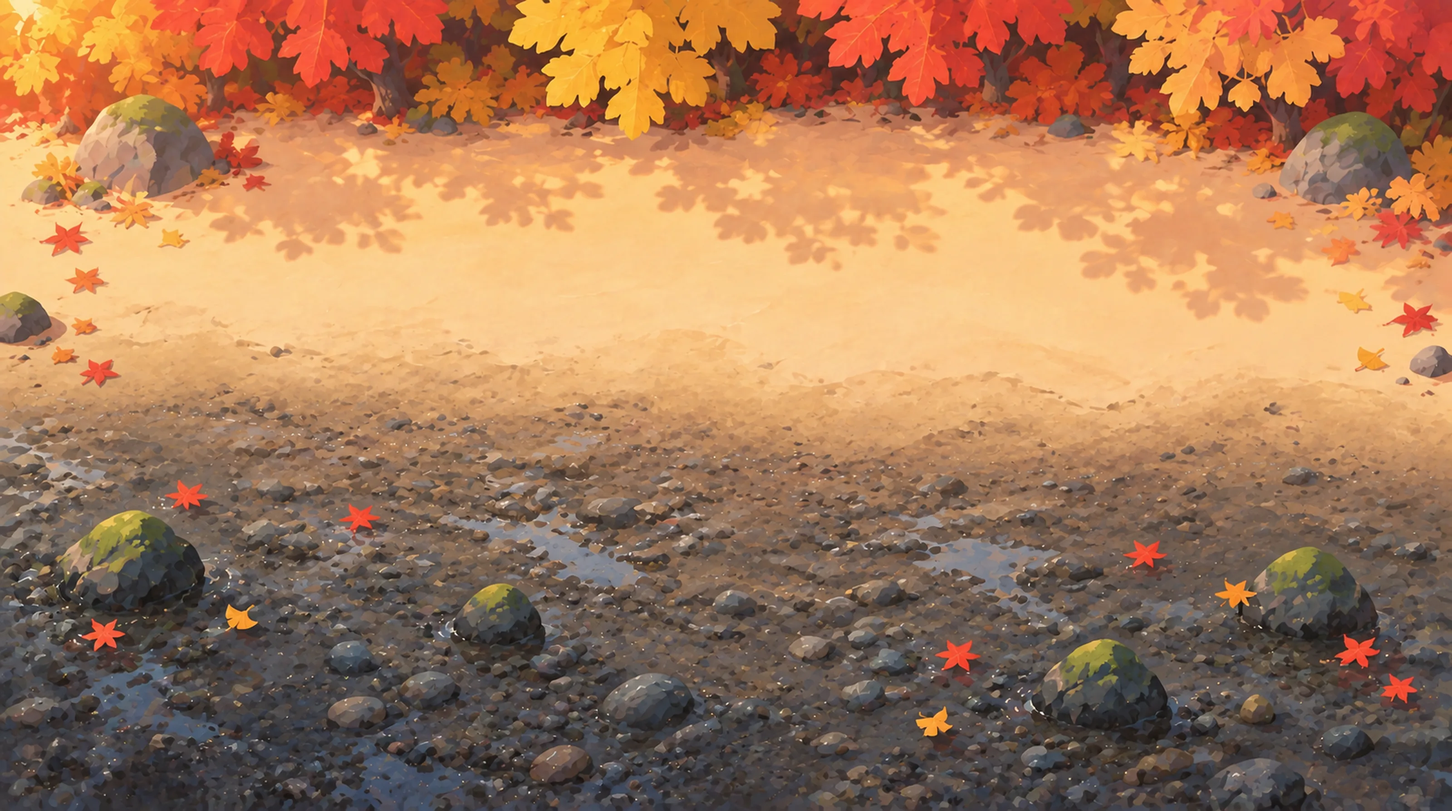
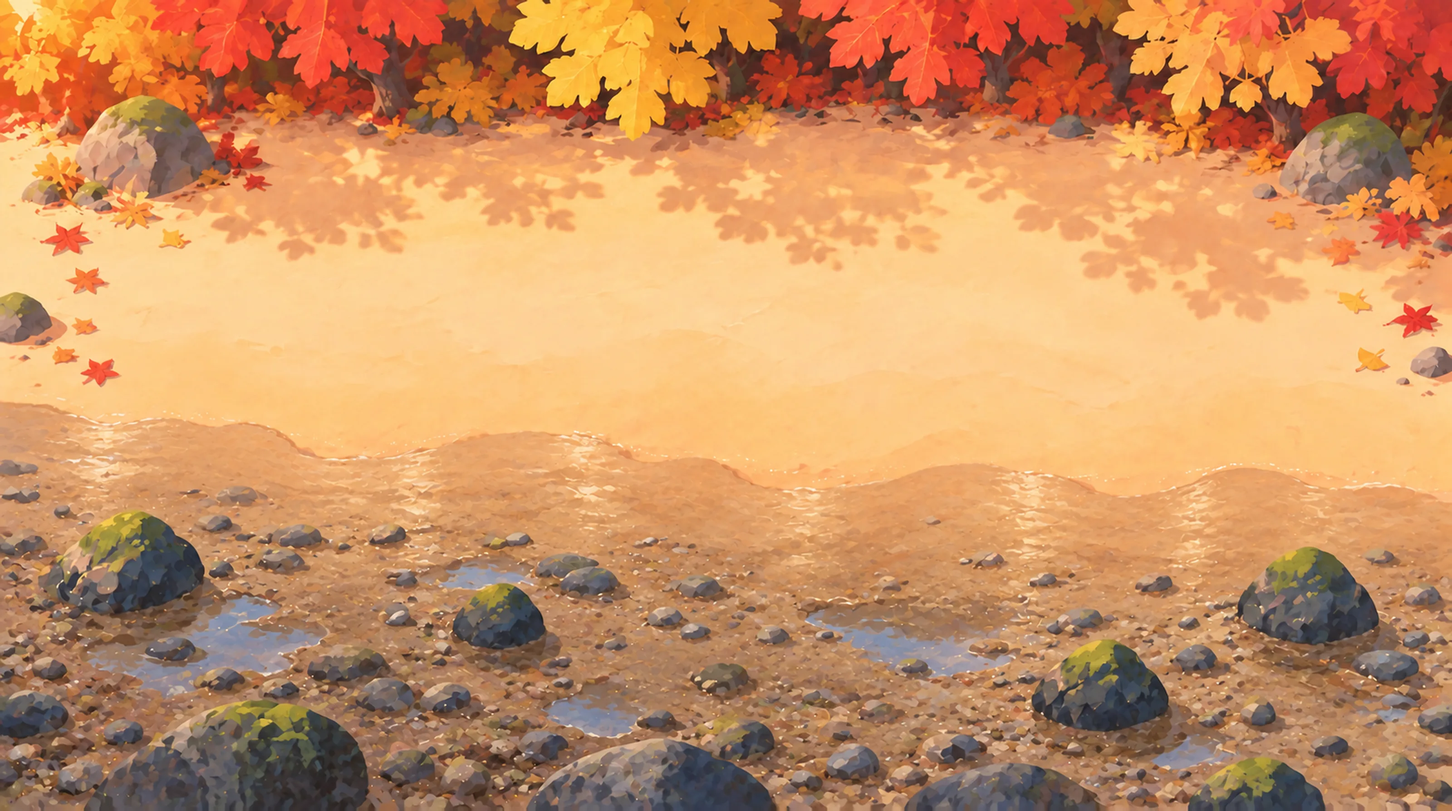
v17.0.1 반영

diff --git a/src/items.js b/src/items.js
@@ -10,24 +10,24 @@
 
 export const ITEMS = [
   { id: 'letter1', kind: 'letter', box: 'bottle', title: '첫 번째 편지', text: '파도가 글씨를 가져가도, 쓰고 싶었던 마음은 모래 속에 남아요.' },
-  { id: 'hat', kind: 'wear', box: 'crate', name: '밀짚모자', img: 'kiwi-hat.webp?v=v17.0.0', note: '햇볕 좋은 날 산책용.' },
+  { id: 'hat', kind: 'wear', box: 'crate', name: '밀짚모자', img: 'kiwi-hat.webp?v=v17.0.1', note: '햇볕 좋은 날 산책용.' },
   { id: 'letter2', kind: 'letter', box: 'bottle', title: '두 번째 편지', text: '키위는 날지 못해서 천천히 걸어요. 천천히 가도 결국 도착해요.' },
-  { id: 'scarf', kind: 'wear', box: 'crate', name: '빨간 목도리', img: 'kiwi-scarf.webp?v=v17.0.0', note: '밤바람이 차가울 때.' },
+  { id: 'scarf', kind: 'wear', box: 'crate', name: '빨간 목도리', img: 'kiwi-scarf.webp?v=v17.0.1', note: '밤바람이 차가울 때.' },
   { id: 'letter3', kind: 'letter', box: 'bottle', title: '세 번째 편지', text: '작은 발자국도 모이면 글자가 돼요. 오늘 찍은 한 걸음도요.' },
-  { id: 'crown', kind: 'wear', box: 'crate', name: '꽃 화관', img: 'kiwi-crown.webp?v=v17.0.0', note: '숲 가장자리에서 엮었대요.' },
+  { id: 'crown', kind: 'wear', box: 'crate', name: '꽃 화관', img: 'kiwi-crown.webp?v=v17.0.1', note: '숲 가장자리에서 엮었대요.' },
   { id: 'letter4', kind: 'letter', box: 'bottle', title: '네 번째 편지', text: '지워진 자리는 다음 문장을 위한 빈 모래예요.' },
-  { id: 'glasses', kind: 'wear', box: 'crate', name: '동그란 안경', img: 'kiwi-glasses.webp?v=v17.0.0', note: '글씨를 더 반듯하게 쓰고 싶어서.' },
+  { id: 'glasses', kind: 'wear', box: 'crate', name: '동그란 안경', img: 'kiwi-glasses.webp?v=v17.0.1', note: '글씨를 더 반듯하게 쓰고 싶어서.' },
   { id: 'letter5', kind: 'letter', box: 'bottle', title: '다섯 번째 편지', text: '여기까지 걸어온 당신에게. — 키위 일동' },
-  { id: 'backpack', kind: 'wear', box: 'crate', name: '작은 배낭', img: 'kiwi-backpack.webp?v=v17.0.0', note: '다음 장소로 떠날 준비.' },
-  { id: 'map-snow', kind: 'map', box: 'crate', map: 'snow', name: '눈밭', img: 'snow-card.webp?v=v17.0.0', note: '눈 덮인 숲 아래 호숫가. 발자국이 또렷하게 남아요.' },
+  { id: 'backpack', kind: 'wear', box: 'crate', name: '작은 배낭', img: 'kiwi-backpack.webp?v=v17.0.1', note: '다음 장소로 떠날 준비.' },
+  { id: 'map-snow', kind: 'map', box: 'crate', map: 'snow', name: '눈밭', img: 'snow-card.webp?v=v17.0.1', note: '눈 덮인 숲 아래 호숫가. 발자국이 또렷하게 남아요.' },
   // v11.1 겨울 옷 (두 번째 묶음 — 눈밭을 연 뒤에 떠내려온다)
-  { id: 'beanie', kind: 'wear', box: 'crate', name: '방울 털모자', img: 'kiwi-beanie.webp?v=v17.0.0', note: '눈밭 산책 필수품.' },
-  { id: 'earmuffs', kind: 'wear', box: 'crate', name: '분홍 귀마개', img: 'kiwi-earmuffs.webp?v=v17.0.0', note: '호수 바람이 찰 때.' },
-  { id: 'sweater', kind: 'wear', box: 'crate', name: '눈꽃 스웨터', img: 'kiwi-sweater.webp?v=v17.0.0', note: '눈송이 무늬 두꺼운 니트.' },
-  { id: 'blanket', kind: 'wear', box: 'crate', name: '체크 담요', img: 'kiwi-blanket.webp?v=v17.0.0', note: '글씨 쓰다 쉬어 갈 때 두르는 망토.' },
-  { id: 'santa', kind: 'wear', box: 'crate', name: '산타 모자', img: 'kiwi-santa.webp?v=v17.0.0', note: '12월이 오면.' },
-  { id: 'vest', kind: 'wear', box: 'crate', name: '패딩 조끼', img: 'kiwi-vest.webp?v=v17.0.0', note: '털 깃이 달린 따뜻한 조끼.' },
-  { id: 'map-fall', kind: 'map', box: 'crate', map: 'fall', name: '가을 호숫가', img: 'fall-card.webp?v=v17.0.0', note: '단풍 숲 아래 잔잔한 호수. 낙엽이 떠다녀요.' },
+  { id: 'beanie', kind: 'wear', box: 'crate', name: '방울 털모자', img: 'kiwi-beanie.webp?v=v17.0.1', note: '눈밭 산책 필수품.' },
+  { id: 'earmuffs', kind: 'wear', box: 'crate', name: '분홍 귀마개', img: 'kiwi-earmuffs.webp?v=v17.0.1', note: '호수 바람이 찰 때.' },
+  { id: 'sweater', kind: 'wear', box: 'crate', name: '눈꽃 스웨터', img: 'kiwi-sweater.webp?v=v17.0.1', note: '눈송이 무늬 두꺼운 니트.' },
+  { id: 'blanket', kind: 'wear', box: 'crate', name: '체크 담요', img: 'kiwi-blanket.webp?v=v17.0.1', note: '글씨 쓰다 쉬어 갈 때 두르는 망토.' },
+  { id: 'santa', kind: 'wear', box: 'crate', name: '산타 모자', img: 'kiwi-santa.webp?v=v17.0.1', note: '12월이 오면.' },
+  { id: 'vest', kind: 'wear', box: 'crate', name: '패딩 조끼', img: 'kiwi-vest.webp?v=v17.0.1', note: '털 깃이 달린 따뜻한 조끼.' },
+  { id: 'map-fall', kind: 'map', box: 'crate', map: 'fall', name: '가을 호숫가', img: 'fall-card.webp?v=v17.0.1', note: '단풍 숲 아래 잔잔한 호수. 낙엽이 떠다녀요.' },
   // v14 소리 (소라 껍데기에 담겨 온다 — 켜 두기만 해도, 편지 다음 순서). group: step = 발자국 소리, nature = 자연 배경 (sound.js)
   { id: 's-snow', kind: 'sound', box: 'conch', group: 'step', pack: 'snow', name: '눈 밟는 소리', note: '발자국마다 뽀드득 — 녹음 BigSoundBank (CC0).' },
   { id: 'n-birds', kind: 'sound', box: 'conch', group: 'nature', pack: 'birds', name: '숲 새소리', note: '숲속 새와 바람 — 녹음 BigSoundBank (CC0).' },
@@ -42,10 +42,10 @@ export const ITEMS = [
   { id: 'm-snowtrack', kind: 'sound', box: 'conch', group: 'music', pack: 'snowtrack', name: '눈길을 지나', note: '포근한 겨울 고리 — Through the Snow, Cleyton Kauffman (CC0).' },
   { id: 'm-contemplation', kind: 'sound', box: 'conch', group: 'music', pack: 'contemplation', name: '생각에 잠겨', note: '선율 없이 잔잔하게 — Contemplation, Joth (CC0).' },
   // v13.1 바꾸기: 물가에서 주운 것으로 만든다 (craft = 필요한 개수, shore.js 의 id). 떠내려오지 않는다
-  { id: 'necklace', kind: 'wear', name: '조개 목걸이', img: 'kiwi-necklace.webp?v=v17.0.0', note: '주운 조개를 꿰어 만들었어요.', craft: { scallop: 4, snail: 4 } },
-  { id: 'plume', kind: 'wear', name: '깃털 머리띠', img: 'kiwi-plume.webp?v=v17.0.0', note: '깃털과 유목을 엮었어요.', craft: { feather: 5, drift: 2 } },
-  { id: 'pendant', kind: 'wear', name: '바다 유리 펜던트', img: 'kiwi-pendant.webp?v=v17.0.0', note: '초록·파랑 바다 유리를 은실로 감았어요.', craft: { glassG: 4, glassB: 2 } },
-  { id: 'starpin', kind: 'wear', name: '불가사리 머리핀', img: 'kiwi-starpin.webp?v=v17.0.0', note: '하트 돌 구슬을 달았어요.', craft: { star: 2, heart: 1 } },
+  { id: 'necklace', kind: 'wear', name: '조개 목걸이', img: 'kiwi-necklace.webp?v=v17.0.1', note: '주운 조개를 꿰어 만들었어요.', craft: { scallop: 4, snail: 4 } },
+  { id: 'plume', kind: 'wear', name: '깃털 머리띠', img: 'kiwi-plume.webp?v=v17.0.1', note: '깃털과 유목을 엮었어요.', craft: { feather: 5, drift: 2 } },
+  { id: 'pendant', kind: 'wear', name: '바다 유리 펜던트', img: 'kiwi-pendant.webp?v=v17.0.1', note: '초록·파랑 바다 유리를 은실로 감았어요.', craft: { glassG: 4, glassB: 2 } },
+  { id: 'starpin', kind: 'wear', name: '불가사리 머리핀', img: 'kiwi-starpin.webp?v=v17.0.1', note: '하트 돌 구슬을 달았어요.', craft: { star: 2, heart: 1 } },
 ];
 export const ITEM = Object.fromEntries(ITEMS.map(it => [it.id, it]));
 

diff --git a/src/leaves.js b/src/leaves.js
@@ -1,6 +1,7 @@
 // leaves.js — 물 위에 떠다니는 단풍 (가을 호숫가, v17)
 //  그림 판에서는 물 위 낙엽을 지우고, 낱장 그림(assets/leaves.webp, 4×2 칸, 투명 배경)을 따로 띄운다.
-//  잎마다 "물가선 아래 얼마나 깊이"(d, 0~1)를 갖고 있어서, 파도가 밀려오면 물가 쪽 잎이 같이 올라갔다 내려온다.
+//  떠내려오는 병·상자(items.js Drifters)와 같은 문법: 물가선(beach.edge)을 기준으로 떠 있고, 위아래로 까딱이며, 동그란 물결을 낸다.
+//  잎마다 "물가선 아래 깊이"(d)가 있어서, 파도가 밀려오면 물가 쪽 잎일수록 많이 밀려 올라갔다가 물이 빠지면 같이 끌려 내려간다.
 
 export class Leaves {
   constructor() { this.list = []; this.sprites = []; }
@@ -25,18 +26,31 @@ export class Leaves {
   make(beach, x) {
     const u = beach.u, r = Math.random;
     return {
-      x, d: 0.08 + r() * 0.85, s: Math.floor(r() * 8),
-      size: (34 + r() * 22) * u, rot: r() * 6.28, vr: (r() - 0.5) * 0.22,
-      vx: (2.5 + r() * 4) * u, ph: r() * 6.28,
+      x, y: null, d: 0.05 + r() * 0.85, s: Math.floor(r() * 8),   // 깊이는 고르게 (물가에 한 줄로 늘어서지 않게)
+      size: (34 + r() * 22) * u, rot: r() * 6.28, vr: (r() - 0.5) * 0.08,
+      vx: (1.5 + r() * 3) * u, ph: r() * 6.28,
     };
   }
 
-  // 바람이 불면 빨리 흘러간다. 오른쪽 끝을 넘으면 왼쪽에서 새 잎으로 들어온다.
+  // 놓일 자리: 물가선 바로 아래(병·상자처럼 7u) ~ 화면 아래 끝 사이, 깊이 비율 d 만큼
+  home(beach, f) {
+    const top = beach.edge(f.x) + 7 * beach.u + f.size * 0.35;
+    return top + f.d * Math.max(0, beach.H + f.size - top);
+  }
+
   update(dt, beach, wind = 0) {
-    const { W, t } = beach;
+    const { W, t, u } = beach;
     for (const f of this.list) {
-      f.x += (f.vx * (1 + wind * 2.5) + Math.sin(t * 0.4 + f.ph) * 3 * beach.u) * dt;
-      f.rot += f.vr * (1 + wind) * dt;
+      // 옆으로: 느린 물살 + 바람, 그리고 물결 따라 좌우로 살랑
+      f.x += (f.vx * (1 + wind * 2.5) + Math.sin(t * 0.35 + f.ph) * 2.5 * u) * dt;
+      // 위아래: 물을 따라간다 — 물이 밀려오면 바로, 빠질 때는 조금 늦게 끌려간다(물에 젖은 잎의 끌림)
+      const want = this.home(beach, f);
+      if (f.y === null) f.y = want;
+      const dy = want - f.y, k = dy < 0 ? 6 : 2.2;
+      const vy = dy * Math.min(1, dt * k) / Math.max(dt, 1e-3);
+      f.y += dy * Math.min(1, dt * k);
+      // 움직이는 만큼 살짝 돈다 (밀려올 때 잎이 비틀린다) + 아주 느린 자전
+      f.rot += (f.vr + vy * 0.0012 / u * Math.sign(Math.sin(f.ph))) * dt;
       if (f.x > W + f.size) Object.assign(f, this.make(beach, -f.size));
     }
   }
@@ -45,20 +59,23 @@ export class Leaves {
     if (!this.sprites.length) return;
     const { H, u, t } = beach;
     for (const f of this.list) {
-      // 물가 거품 줄 아래에서만: 큰 파도의 얇은 물 막 위로는 안 올라가고(그려진 물가선이 상한), 물이 빠지면 같이 내려간다
-      const top = Math.max(beach.edge(f.x), beach.shoreAt(f.x)) + 24 * u + f.size * 0.5;
-      if (top > H) continue;
-      const y = top + f.d * (H + f.size - top) + Math.sin(t * 1.2 + f.ph) * 1.6 * u;
+      if (f.y === null || f.y - f.size > H) continue;
+      const bob = Math.sin(t * 1.8 + f.ph) * 2.2 * u, tilt = Math.sin(t * 1.3 + f.ph) * 0.1;
       const im = this.sprites[f.s], k = f.size / Math.max(im.width, im.height) * 1.25;
       ctx.save();
-      // 물에 비친 그림자 · 가끔 동그란 물결
-      ctx.globalAlpha = 0.2; ctx.fillStyle = '#0b2b3a';
-      ctx.beginPath(); ctx.ellipse(f.x + 3 * u, y + 4 * u, f.size * 0.38, f.size * 0.26, f.rot, 0, 6.29); ctx.fill();
-      const ph = (t * 0.25 + f.ph) % 1;
-      ctx.globalAlpha = (1 - ph) * 0.3; ctx.strokeStyle = '#fff'; ctx.lineWidth = 1 * u;
-      ctx.beginPath(); ctx.ellipse(f.x, y, f.size * (0.4 + ph * 0.5), f.size * (0.22 + ph * 0.3), 0, 0, 6.29); ctx.stroke();
+      // 동그란 물결 두 겹 (병·상자와 같은 박자, 잎이라 조금 옅게)
+      ctx.strokeStyle = 'rgba(255,255,255,0.5)'; ctx.lineWidth = 1.1 * u;
+      for (let j = 0; j < 2; j++) {
+        const ph = (t * 0.45 + j * 0.5 + f.ph) % 1;
+        ctx.globalAlpha = (1 - ph) * 0.45;
+        ctx.beginPath(); ctx.ellipse(f.x, f.y + 3 * u, f.size * (0.42 + ph * 0.45), f.size * (0.2 + ph * 0.18), 0, 0, 6.29); ctx.stroke();
+      }
+      // 물에 비친 그림자 — 까딱일 때 잎만 뜨고 그림자는 물에 남는다
+      ctx.globalAlpha = 0.22; ctx.fillStyle = '#0b2b3a';
+      ctx.beginPath(); ctx.ellipse(f.x + 3 * u, f.y + 5 * u, f.size * 0.36, f.size * 0.22, f.rot, 0, 6.29); ctx.fill();
       ctx.globalAlpha = 1;
-      ctx.translate(f.x, y); ctx.rotate(f.rot); ctx.scale(k, k * (1 + Math.sin(t * 1.7 + f.ph) * 0.04));
+      ctx.translate(f.x, f.y + bob); ctx.rotate(f.rot + tilt);
+      ctx.scale(k, k * (1 - Math.abs(Math.sin(t * 1.3 + f.ph)) * 0.06));   // 기울 때 살짝 납작 (물결에 얹힌 느낌)
       ctx.drawImage(im, -im.width / 2, -im.height / 2);
       ctx.restore();
     }

diff --git a/index.html b/index.html
@@ -6,7 +6,7 @@
   <meta name="theme-color" content="#1A5C91" />
   <title>발자국 한글 · Kiwi Footprints</title>
   <meta name="description" content="밝은 열대 해변, 날지 못하는 키위들이 천천히 걸어 나와 발자국으로 글씨를 쓰고 파도가 지웁니다. 켜 두고 감상하는 작은 인터랙티브 공간." />
-  <link rel="stylesheet" href="style.css?v=v17.0.0" />
+  <link rel="stylesheet" href="style.css?v=v17.0.1" />
 </head>
 <body data-view="top">
   <div id="world" aria-hidden="true">
@@ -151,13 +151,14 @@
       <p>가끔 물 위로 편지가 든 유리병이 떠내려와요. 모래시계 버튼으로 집중을 시작해 이 화면을 끝까지 켜 두면, 키위 한 마리가 숲 가장자리를 오가며 걸음을 세고 끝나면 키위 옷·새 장소가 든 상자와 시작할 때 쓴 내 편지가 떠내려와요. 물가에 닿으면 눌러서 열어 보세요(설정 → 모은 것). 켜 두면 몇 분에 한 번 물가에 조개·바다 유리 같은 작은 것도 밀려와요 — 눌러서 주우면 「주운 것」 도감에 모여요(어떤 건 밤·비·해 질 녘·눈밭에서만). 모래를 누르면 근처 키위가 와서 콕, 키위를 누르면 깜짝, 빛안개(구름)를 누르면 흩어집니다. 안개 낀 날에는 누른 자리가 뻥 뚫리고, 누른 채 문지르면 안개가 닦여요.</p>
       <p>소리 버튼을 누르면 음악·파도·효과음 크기와 곡·발자국 소리·자연 배경을 고를 수 있어요(고르면 기본 소리 대신 나와요). 키위가 글씨를 밟으면 음이 나고, 배경 음악은 시간대와 날씨에 따라 바뀝니다.</p>
       <p>오른쪽 위 첫 버튼(M 키)은 글 모드입니다 — 직접 쓰기 · 시계(시·분이 바뀌면 바뀐 글자만 다시 씀. 톱니바퀴 설정에서 장소(바닷가 · 뉴질랜드 숲 · 상자에서 나오는 눈밭), 초 표시와 오전/오후 · AM/PM · 24시간을 고름) · 명언 · 단어장(다 쓰면 뜻이 드러납니다). 둘째 버튼(W 키)은 날씨 — 맑음 · 흐림 · 비 · 눈 · 안개 · 바람. 장면의 빛은 실제 시각을 따라 새벽·낮·노을·밤으로 바뀌고, 밤에는 반딧불이가 뜨고 키위가 더 많이 나옵니다(T 키로 3시간씩 미리보기). 오른쪽 위 버튼으로 시점을 바꿉니다(V 키) — 위에서 · 디오라마 · 따라가기.</p>
-      <p class="credits">키위 스핀오프 v17.0.0 · 2026-10-11<br />영감: <a href="https://flocking-hangul.doodlefingers.kr/" target="_blank" rel="noopener">Flocking Hangul</a>(doodlefingers). 배경·키위·갈매기 그림은 AI 이미지 생성(Higgsfield · 가을 호숫가와 단풍은 ChatGPT)으로, 기본 소리는 Web Audio 합성으로 만들었습니다. 모아서 받는 소리·곡은 CC0(퍼블릭 도메인) 녹음입니다 — 발자국·숲·모닥불·개구리: <a href="https://bigsoundbank.com/" target="_blank" rel="noopener">BigSoundBank</a>(Joseph Sardin) · 곡: <a href="https://opengameart.org/content/heavenly-loop" target="_blank" rel="noopener">Heavenly Loop</a>(isaiah658), <a href="https://opengameart.org/content/snow-theme" target="_blank" rel="noopener">Through the Snow</a>(Cleyton Kauffman), <a href="https://opengameart.org/content/contemplation-0" target="_blank" rel="noopener">Contemplation</a>(Joth).</p>
+      <p class="credits">키위 스핀오프 v17.0.1 · 2026-10-11<br />영감: <a href="https://flocking-hangul.doodlefingers.kr/" target="_blank" rel="noopener">Flocking Hangul</a>(doodlefingers). 배경·키위·갈매기 그림은 AI 이미지 생성(Higgsfield · 가을 호숫가와 단풍은 ChatGPT)으로, 기본 소리는 Web Audio 합성으로 만들었습니다. <span id="audio-credits">모아서 받는 소리·곡은 CC0(퍼블릭 도메인) 녹음입니다 — 발자국·숲·모닥불·개구리: <a href="https://bigsoundbank.com/" target="_blank" rel="noopener">BigSoundBank</a>(Joseph Sardin) · 곡: <a href="https://opengameart.org/content/heavenly-loop" target="_blank" rel="noopener">Heavenly Loop</a>(isaiah658), <a href="https://opengameart.org/content/snow-theme" target="_blank" rel="noopener">Through the Snow</a>(Cleyton Kauffman), <a href="https://opengameart.org/content/contemplation-0" target="_blank" rel="noopener">Contemplation</a>(Joth).</span></p>
       <button type="button" data-close>닫기</button>
     </div>
   </div>
 
   <div id="boot" aria-hidden="true"></div>
   <noscript><p class="noscript">이 작품은 JavaScript가 필요합니다.</p></noscript>
-  <script type="module" src="src/main.js?v=v17.0.0"></script>
+  <script type="module" src="src/main.js?v=v17.0.1"></script>
+  <script type="module" src="src/credits.js"></script>
 </body>
 </html>

diff --git a/src/main.js b/src/main.js
@@ -15,24 +15,24 @@
 //     시간대·날씨에 따라 바뀌는 배경 음악(music.js), 좌우 위치·잔향, 다 쓰면 키위 합창, 믹서(소리 버튼).
 // v6 에서 픽셀 모드는 뺐다 (어떤 해상도에서도 선명한 벡터 원칙과 충돌). v2~v5 브랜치에 남아 있다.
 
-import { layoutText, strokesOf, glyph } from './hangul.js?v=v17.0.0';
-import { Beach } from './beach.js?v=v17.0.0';
-import { Kiwi } from './kiwi.js?v=v17.0.0';
-import { Sound } from './sound.js?v=v17.0.0';
-import { loadPlate } from './plate.js?v=v17.0.0';
-import { MAPS, MAP_IDS } from './maps.js?v=v17.0.0';
-import { WaterGL } from './water.js?v=v17.0.0';
-import { setKiwiSprite, setKiwiSkins } from './kiwi.js?v=v17.0.0';
-import { ITEMS, ITEM, Collection, Drifters } from './items.js?v=v17.0.0';
-import { Leaves } from './leaves.js?v=v17.0.0';
-import { Clouds } from './clouds.js?v=v17.0.0';
-import { Gulls } from './gulls.js?v=v17.0.0';
-import { Atmos, WEATHERS, WEATHER_NAME, timeLight, artAt } from './atmos.js?v=v17.0.0';
-import { MODES, MODE_NAME, QUOTES, WORDS, Deck, clockText, isClock, CLOCK_FMTS } from './content.js?v=v17.0.0';
-import { clamp, dist } from './util.js?v=v17.0.0';
-import { Focus, Awake, LENGTHS } from './focus.js?v=v17.0.0';
-import { UNLOCK_ALL } from './config.js?v=v17.0.0';
-import { Shore, Finds, FINDS, FIND, RARITY } from './shore.js?v=v17.0.0';
+import { layoutText, strokesOf, glyph } from './hangul.js?v=v17.0.1';
+import { Beach } from './beach.js?v=v17.0.1';
+import { Kiwi } from './kiwi.js?v=v17.0.1';
+import { Sound } from './sound.js?v=v17.0.1';
+import { loadPlate } from './plate.js?v=v17.0.1';
+import { MAPS, MAP_IDS } from './maps.js?v=v17.0.1';
+import { WaterGL } from './water.js?v=v17.0.1';
+import { setKiwiSprite, setKiwiSkins } from './kiwi.js?v=v17.0.1';
+import { ITEMS, ITEM, Collection, Drifters } from './items.js?v=v17.0.1';
+import { Leaves } from './leaves.js?v=v17.0.1';
+import { Clouds } from './clouds.js?v=v17.0.1';
+import { Gulls } from './gulls.js?v=v17.0.1';
+import { Atmos, WEATHERS, WEATHER_NAME, timeLight, artAt } from './atmos.js?v=v17.0.1';
+import { MODES, MODE_NAME, QUOTES, WORDS, Deck, clockText, isClock, CLOCK_FMTS } from './content.js?v=v17.0.1';
+import { clamp, dist } from './util.js?v=v17.0.1';
+import { Focus, Awake, LENGTHS } from './focus.js?v=v17.0.1';
+import { UNLOCK_ALL } from './config.js?v=v17.0.1';
+import { Shore, Finds, FINDS, FIND, RARITY } from './shore.js?v=v17.0.1';
 
 const q = new URLSearchParams(location.search);
 const num = (k, d) => { const v = q.get(k); return v != null && v !== '' && !isNaN(+v) ? +v : d; };
@@ -856,15 +856,15 @@ window.addEventListener('resize', () => { clearTimeout(rt); rt = setTimeout(() =
 // 그림 판·키위·갈매기 그림을 다 읽은 뒤 시작한다
 async function boot() {
   const img = src => new Promise((res, rej) => { const im = new Image(); im.onload = () => res(im); im.onerror = rej; im.src = src; });
-  const [p, kiwiImg, gullImg, bottle, crate] = await Promise.all([getPlate(plateFor(innerWidth, innerHeight)), img('assets/kiwi.webp?v=v17.0.0'), img('assets/gull.webp?v=v17.0.0'), img('assets/bottle.webp?v=v17.0.0'), img('assets/crate.webp?v=v17.0.0')]);
-  img('assets/finds.webp?v=v17.0.0').then(im => {
+  const [p, kiwiImg, gullImg, bottle, crate] = await Promise.all([getPlate(plateFor(innerWidth, innerHeight)), img('assets/kiwi.webp?v=v17.0.1'), img('assets/gull.webp?v=v17.0.1'), img('assets/bottle.webp?v=v17.0.1'), img('assets/crate.webp?v=v17.0.1')]);
+  img('assets/finds.webp?v=v17.0.1').then(im => {
     shore.setSheet(im);
     const c = document.createElement('canvas'), cw = im.naturalWidth / 4; c.width = c.height = cw;
     c.getContext('2d').drawImage(im, cw * 1.15, cw * 0.15, cw * 0.7, cw * 0.7, 0, 0, cw, cw);   // 1번 칸 = 소라 껍데기 (가운데 70% — 칸 안 여백을 덜어 병·상자만큼 보이게)
     drifters.setSprites({ ...drifters.imgs, conch: c });
   }).catch(() => {});
   drifters.setSprites({ bottle, crate });
-  img('assets/leaves.webp?v=v17.0.0').then(im => floaters.setSheet(im)).catch(() => {});
+  img('assets/leaves.webp?v=v17.0.1').then(im => floaters.setSheet(im)).catch(() => {});
   // 옷 입은 키위 그림은 뒤에서 천천히 읽는다 (없어도 맨몸으로 그린다)
   for (const it of ITEMS) if (it.kind === 'wear') img('assets/' + it.img).then(im => setKiwiSkins({ [it.id]: im })).catch(() => {});
   plate = p;

diff --git a/src/plate.js b/src/plate.js
@@ -15,7 +15,7 @@ const AW = 800;   // 분석용 축소 폭 (픽셀 판정은 이 해상도에서)
 
 export async function loadPlate(base = 'assets/', name = 'plate', opts = {}) {
   const load = src => new Promise((res, rej) => { const im = new Image(); im.decoding = 'async'; im.onload = () => res(im); im.onerror = () => rej(new Error('그림을 못 읽었다: ' + src)); im.src = base + src; });
-  const [img, dry, sea] = await Promise.all([load(name + '.webp?v=v17.0.0'), load(name + '-dry.webp?v=v17.0.0'), load(name + '-sea.webp?v=v17.0.0')]);
+  const [img, dry, sea] = await Promise.all([load(name + '.webp?v=v17.0.1'), load(name + '-dry.webp?v=v17.0.1'), load(name + '-sea.webp?v=v17.0.1')]);
   const p = new Plate(img, dry, sea, opts);
   p.name = name; p.base = base;
   return p;
@@ -236,7 +236,7 @@ export class Plate {
     if (this.opts.art === false) return Promise.resolve(null);   // 시간대 그림 판이 없는 장소: 코드 빛만
     const load = src => new Promise((res, rej) => { const im = new Image(); im.decoding = 'async'; im.onload = () => res(im); im.onerror = rej; im.src = this.base + src; });
     this.sets ||= {}; this._sets ||= {};
-    return (this._sets[kind] ||= Promise.all(['', '-dry', '-sea'].map(v => load(`${this.name}${v}-${kind}.webp?v=v17.0.0`)))
+    return (this._sets[kind] ||= Promise.all(['', '-dry', '-sea'].map(v => load(`${this.name}${v}-${kind}.webp?v=v17.0.1`)))
       .then(([img, dry, sea]) => (this.sets[kind] = { img, dry, sea }))
       .catch(() => null));
   }

diff --git a/src/kiwi.js b/src/kiwi.js
@@ -10,8 +10,8 @@
 //      그림을 처음 읽을 때 알파를 훑어 부리 끝·몸 바닥을 찾아 크기·콕 각도를 맞춘다 (setKiwiSprite).
 //  (x, y) = 발이 땅에 닿는 점. k = 몸 크기 단위 (꼬리 −0.41k ~ 부리 끝 +0.8k, 머리 꼭대기 −0.86k)
 
-import { angleDiff, clamp, dist, Path } from './util.js?v=v17.0.0';
-import { PAL as T, LIGHT } from './tokens.js?v=v17.0.0';
+import { angleDiff, clamp, dist, Path } from './util.js?v=v17.0.1';
+import { PAL as T, LIGHT } from './tokens.js?v=v17.0.1';
 
 let ID = 0;
 export let REACH = 0.8;             // 몸을 숙였을 때 부리 끝이 땅에 닿는 가로 거리 (k 배수) — 그림에서 다시 잰다

diff --git a/src/atmos.js b/src/atmos.js
@@ -6,7 +6,7 @@
 //        구름 양·흐름 속도·파도 높이는 셰이더/해변에 넘기고, 빗줄기·물방울 고리·눈송이·나뭇잎·안개·반딧불이·야광은 여기서 #fx 캔버스에 그린다.
 //        눈은 시간이 지날수록 땅(셰이더 uSnow)과 나무에 쌓이고, 그치면 천천히 녹는다.
 
-import { clamp, lerp } from './util.js?v=v17.0.0';
+import { clamp, lerp } from './util.js?v=v17.0.1';
 
 export const WEATHERS = ['clear', 'cloudy', 'rain', 'snow', 'fog', 'wind'];
 export const WEATHER_NAME = { clear: '맑음', cloudy: '흐림', rain: '비', snow: '눈', fog: '안개', wind: '바람' };

diff --git a/src/gulls.js b/src/gulls.js
@@ -3,7 +3,7 @@
 //      날갯짓은 날개 방향으로 그림을 접었다 펴는 것, 물 위에는 흐린 그림자가 빛 방향으로 비켜 따라간다.
 //  한두 마리가 바다 위를 지나가고, 다 지나가면 잠시 뒤 다시 온다. 지나갈 때 가끔 운다(onCall).
 
-import { LIGHT, MOTION } from './tokens.js?v=v17.0.0';
+import { LIGHT, MOTION } from './tokens.js?v=v17.0.1';
 
 const HEAD = 0.654;      // 그림 속 갈매기가 향한 각 (오른쪽 위로 −0.654 rad) → 이만큼 돌리면 오른쪽을 본다
 const PIVOT = [0.478, 0.488];

diff --git a/src/sound.js b/src/sound.js
@@ -9,7 +9,7 @@
 //  믹서 값(소리 켜기·음악·환경음·효과음·발자국 음악)은 기기에 기억한다.
 //  브라우저는 사용자 동작 안에서만 소리를 열 수 있어서 unlock() 을 그때 부른다. 탭을 숨기면 멈춘다.
 
-import { Music } from './music.js?v=v17.0.0';
+import { Music } from './music.js?v=v17.0.1';
 
 // v16 아이템 소리·곡은 오픈소스 녹음 (전부 CC0 — 출처는 docs/v8-assets.md · 작품 설명). assets/audio/ 에서 처음 고를 때 받는다
 const AUDIO = 'assets/audio/';

diff --git a/src/beach.js b/src/beach.js
@@ -5,8 +5,8 @@
 //  · 큰 파도: surge(y) — 오르기 · 머물기 · 빠지기. 물이 지나간 자리는 한동안 젖어 있다(wet)
 //  · 발자국: 'deep' 글씨 획 · 'faint' 오가는 길(곧 사라짐) · 'hole' 부리 자국
 
-import { clamp, easeOut, easeInOut } from './util.js?v=v17.0.0';
-import { PAL } from './tokens.js?v=v17.0.0';
+import { clamp, easeOut, easeInOut } from './util.js?v=v17.0.1';
+import { PAL } from './tokens.js?v=v17.0.1';
 
 const RISE = 1.5, HOLD = 0.5, FALL = 3.2;
 const FAINT = 0.22, FAINT_LIFE = 2.2;

diff --git a/src/clouds.js b/src/clouds.js
@@ -2,7 +2,7 @@
 //  천천히 흘러가고, 누르면 덩어리가 작은 조각으로 흩어져 사라졌다가 화면 왼쪽에서 새로 생긴다.
 //  amount(0~1)·windK 는 날씨가 정한다.
 
-import { PAL, LIGHT, MOTION } from './tokens.js?v=v17.0.0';
+import { PAL, LIGHT, MOTION } from './tokens.js?v=v17.0.1';
 
 export class Clouds {
   constructor() { this.list = []; this.bits = []; this.amount = 0.24; this.windK = 1; this.t = 0; }
